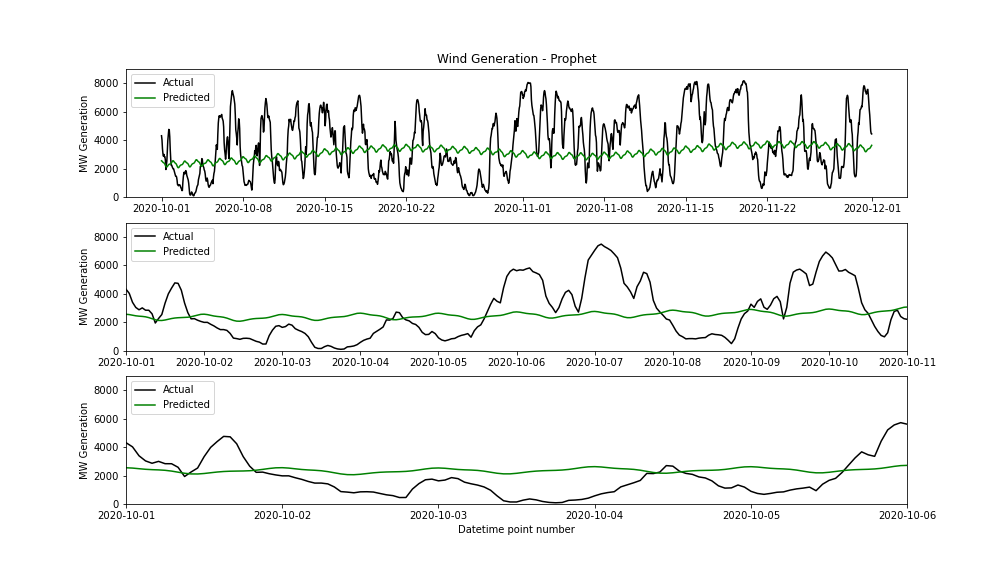
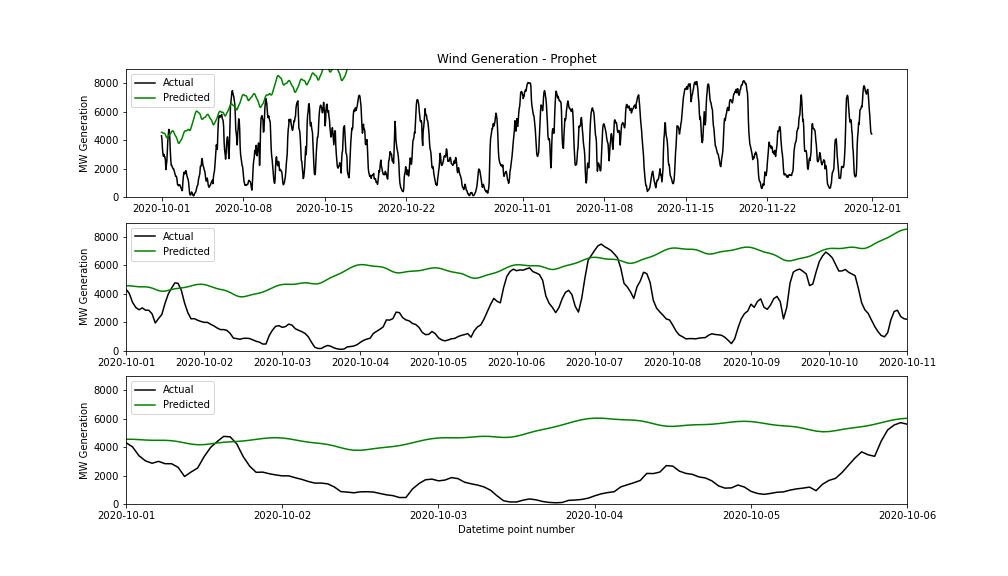
Prophet 2 work

diff --git a/Final Project/README.md b/Final Project/README.md
@@ -6,7 +6,7 @@
 ___
 # Data Information
 Source: https://dataminer2.pjm.com/feed/wind_gen
-This site provides the hourly electrical wind generation amounts from all areas owned by PJM. I selected to use only the "Area" RFC (ReliabilityFirst Corporation).
+This site provides the hourly wind generation amounts from all areas owned by PJM. I selected to use only the "Area" RFC (ReliabilityFirst Corporation).
 ![enter image description here](https://rfirst.org/about/PublishingImages/About%20Us%20Map.png)
 
 The dataset was created by selecting 1-year increments from 2011-2019. The data for 2020 was split in two: January - September and October - November. The first part of 2020 was used in conjunction with the older data. The Oct/Nov data is used for a comparison to our predicted values.
@@ -293,14 +293,18 @@ Output the graphics to visually see how close we got.
 Building off of the code from the first prophet try, let's see if we can tweak some settings in the model building.
 We are going to edit the seasonalities, and changepoint_prior_scale.
 
-    model = Prophet(changepoint_prior_scale=0.80,
-                      daily_seasonality=True, 
-                      weekly_seasonality=True,
-                      yearly_seasonality=True
-                     ).add_seasonality(name='hourly',
+    model = Prophet(changepoint_prior_scale=10,
+                    seasonality_prior_scale=0.1,
+                    n_changepoints=10,
+                    seasonality_mode = "multiplicative",
+                    daily_seasonality=True, 
+                    weekly_seasonality=True,
+                    yearly_seasonality=True
+                    ).add_seasonality(name='hourly',
                                        period=0.04167,
-                                       fourier_order=20
+                                       fourier_order=15
                                       )
+
 Sadly this hasn't helped our forecast and our RMSE value is actually worse than before. When looking at the graphs, they look very similar, and not much has changed.
 (If anyone has a lot more experience with prophet and can help me with this, I'd appreciate the knowledge).
 
@@ -322,4 +326,4 @@ We can start by comparing the root mean squared error (RMSE) numbers.
 
 Laid out like this, ARIMA is the best method for forecasting. But this doesn't tell the whole story. ARMA and ARIMA as so good at this because we are able to calculate our errors (residuals) as we go. Comparing to prophet which uses past data and creates an estimate for where it thinks the data will go.
 
-All in all, there is no best. It really depends on your application and how far into the future you're trying to estimate.  
+All in all, there is no best. It really depends on your application and how far into the future you're trying to estimate.
